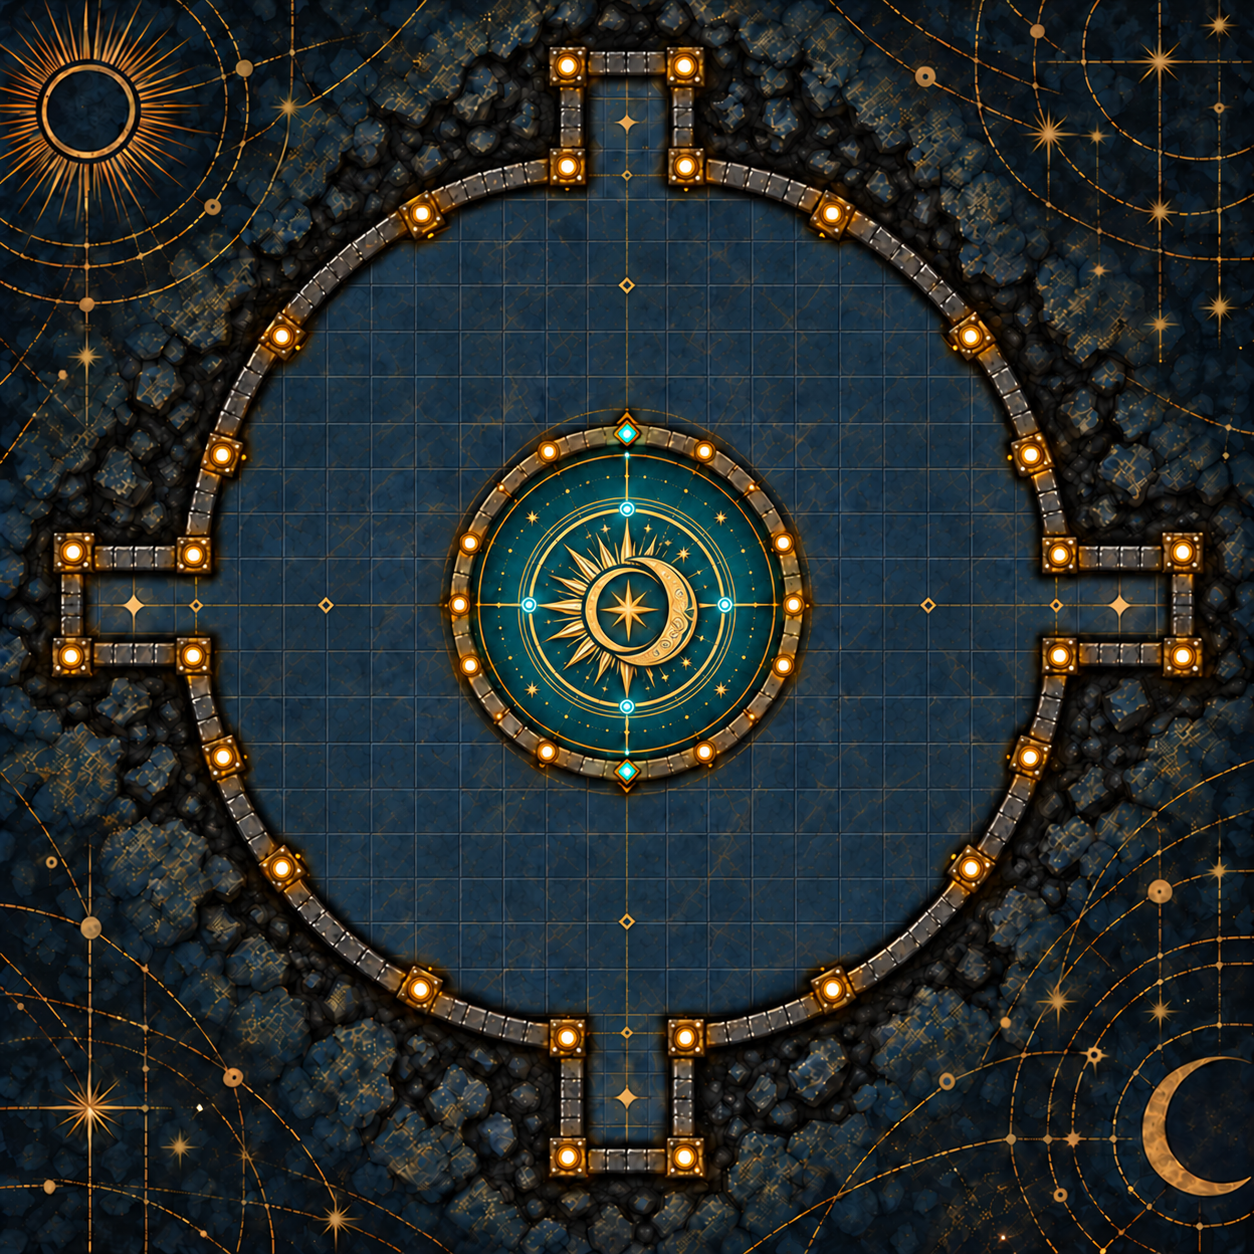
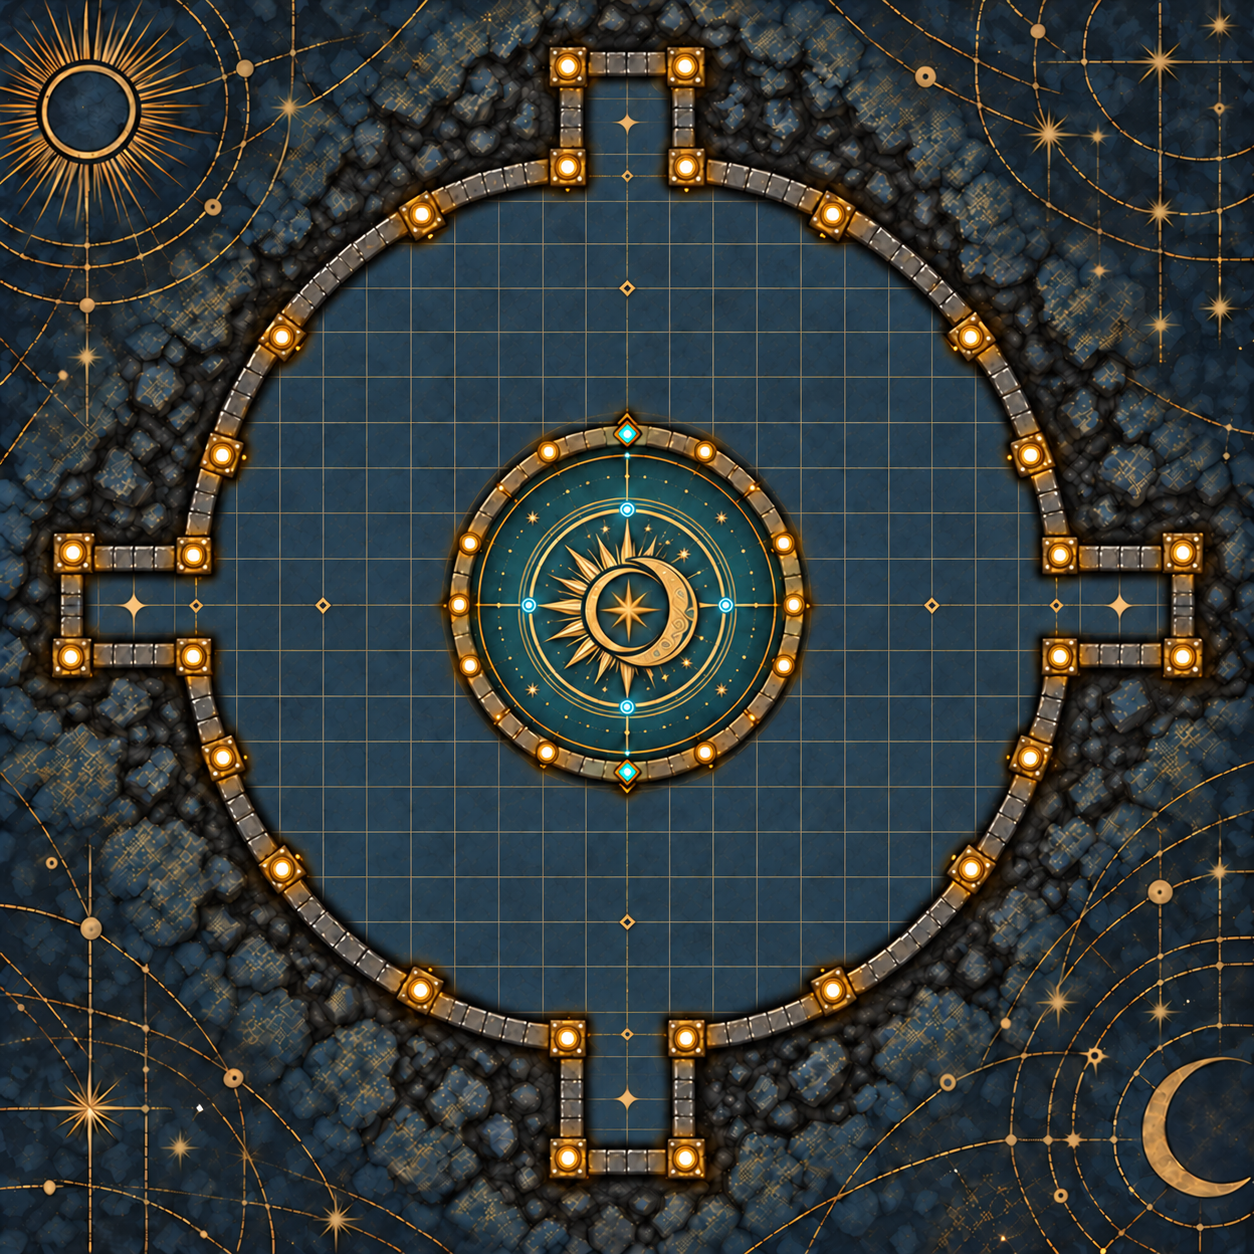
sdsa

Changed region(s): [[0.0, 0.0, 1.0, 1.0]]

diff --git a/orologio/js/orologio.js b/orologio/js/orologio.js
@@ -6,7 +6,7 @@
 const COLS_DEFAULT=29, ROWS_DEFAULT=29;
 const POSITION_KEY='palazzo_eterno_orologio_position';
 let cols=COLS_DEFAULT,rows=ROWS_DEFAULT,view=13;
-let imageWidth=1254,imageHeight=1254,gridX=20,gridY=20,cellPx=43.45;
+let imageWidth=1254,imageHeight=1254,gridX=19,gridY=19,cellWidthPx=43.44,cellHeightPx=44.78;
 let walkable=new Set(), blocked=new Set(),player=null, token=null, pos={x:14,y:26}, bonuses={};
 const $=id=>document.getElementById(id);
 const key=(x,y)=>`${x},${y}`;
@@ -16,7 +16,7 @@ const isWalkable=(x,y)=>Number.isInteger(x)&&Number.isInteger(y)&&x>=0&&y>=0&&x<
 async function loadMap(){
  const r=await fetch('orologio.json',{cache:'no-store'});if(!r.ok)throw Error('Impossibile caricare orologio.json');
  const data=await r.json();cols=Number(data.grid?.columns)||COLS_DEFAULT;rows=Number(data.grid?.rows)||ROWS_DEFAULT;
- const g=data.grid||{};imageWidth=Number(g.image_width_px)||1254;imageHeight=Number(g.image_height_px)||1254;gridX=Number(g.offset_x_px??20);gridY=Number(g.offset_y_px??20);cellPx=Number(g.cell_size_px)||43.45;
+ const g=data.grid||{};imageWidth=Number(g.image_width_px)||1254;imageHeight=Number(g.image_height_px)||1254;gridX=Number(g.offset_x_px??19);gridY=Number(g.offset_y_px??19);cellWidthPx=Number(g.cell_width_px ?? g.cell_size_px ?? 43.44);cellHeightPx=Number(g.cell_height_px ?? g.cell_size_px ?? 44.78);
  walkable=new Set((data.walkable_cells||[]).map(c=>key(Number(c.x),Number(c.y))));
  blocked=new Set((data.blocked_cells||[]).map(c=>key(Number(c.x),Number(c.y))));
  const img=$('dungeon-map-image');if(img)img.src=data.image||'immagini/stanza_orologio.png';
@@ -51,17 +51,17 @@ function updateCharacter(){
 function renderToken(){const map=$('dungeon-map');if(!map)return;
  token=document.createElement('div');token.className='dungeon-player-token orologio-token';
  const img=document.createElement('img');img.src='../immagini/token/'+(player.token||'token_1.png');img.alt=player.nome||'PG';img.draggable=false;token.appendChild(img);map.appendChild(token);positionToken();}
-function tokenLeft(x){return (gridX+x*cellPx)/imageWidth*100;}
-function tokenTop(y){return (gridY+y*cellPx)/imageHeight*100;}
-function positionToken(){if(!token)return;token.style.left=tokenLeft(pos.x)+'%';token.style.top=tokenTop(pos.y)+'%';token.style.width=cellPx/imageWidth*100+'%';token.style.height=cellPx/imageHeight*100+'%';put('dungeon-player-coordinates',`Coordinate PG: X ${pos.x} · Y ${pos.y}`);}
+function tokenLeft(x){return (gridX+x*cellWidthPx)/imageWidth*100;}
+function tokenTop(y){return (gridY+y*cellHeightPx)/imageHeight*100;}
+function positionToken(){if(!token)return;token.style.left=tokenLeft(pos.x)+'%';token.style.top=tokenTop(pos.y)+'%';token.style.width=cellWidthPx/imageWidth*100+'%';token.style.height=cellHeightPx/imageHeight*100+'%';put('dungeon-player-coordinates',`Coordinate PG: X ${pos.x} · Y ${pos.y}`);}
 function camera(immediate=false){const frame=document.querySelector('.dungeon-map-frame'),map=$('dungeon-map');if(!frame||!map)return;
  const fw=frame.clientWidth,fh=frame.clientHeight,mw=map.offsetWidth,mh=map.offsetHeight;
- const cx=(gridX+(pos.x+.5)*cellPx)/imageWidth*mw,cy=(gridY+(pos.y+.5)*cellPx)/imageHeight*mh;
+ const cx=(gridX+(pos.x+.5)*cellWidthPx)/imageWidth*mw,cy=(gridY+(pos.y+.5)*cellHeightPx)/imageHeight*mh;
  const dx=Math.max(0,Math.min(mw-fw,cx-fw/2)),dy=Math.max(0,Math.min(mh-fh,cy-fh/2));
  map.style.transition=immediate?'none':'transform 170ms ease-out';map.style.transform=`translate3d(${-dx}px,${-dy}px,0)`;}
 function zoom(v){view=Math.max(5,Math.min(Math.max(cols,rows),Math.round(v)));const map=$('dungeon-map');if(!map)return;
  // Misura cella visibile effettiva: include il margine di 20px presente nell'immagine.
- const zoomFactor=imageWidth/(cellPx*view);
+ const zoomFactor=Math.min(imageWidth/(cellWidthPx*view), imageHeight/(cellHeightPx*view));
  map.style.setProperty('width',`${zoomFactor*100}%`,'important');map.style.setProperty('height',`${zoomFactor*100}%`,'important');
  map.style.setProperty('--orologio-view-cells',String(view));put('base-zoom-reset',`${view} × ${view}`);camera(true);positionToken();}
 function move(dx,dy){const nx=pos.x+dx,ny=pos.y+dy;if(!isWalkable(nx,ny)){message('Passaggio bloccato.');return;}
@@ -72,11 +72,11 @@ function controls(){
  $('base-zoom-reset')?.addEventListener('click',()=>zoom(13));$('base-zoom-full')?.addEventListener('click',()=>zoom(Math.max(cols,rows)));
  document.addEventListener('keydown',e=>{if(e.target?.closest?.('input,textarea,select,[contenteditable="true"]'))return;
  const directions={w:[0,-1],arrowup:[0,-1],a:[-1,0],arrowleft:[-1,0],s:[0,1],arrowdown:[0,1],d:[1,0],arrowright:[1,0]};let delta=directions[e.key.toLowerCase()];if(!delta)return;e.preventDefault();if(!e.repeat)move(...delta);});
- $('dungeon-map')?.addEventListener('click',e=>{const map=$('dungeon-map');const rect=map.getBoundingClientRect();const x=Math.floor(((e.clientX-rect.left)/rect.width*imageWidth-gridX)/cellPx),y=Math.floor(((e.clientY-rect.top)/rect.height*imageHeight-gridY)/cellPx);if(Math.abs(x-pos.x)+Math.abs(y-pos.y)===1)move(x-pos.x,y-pos.y);});
+ $('dungeon-map')?.addEventListener('click',e=>{const map=$('dungeon-map');const rect=map.getBoundingClientRect();const x=Math.floor((((e.clientX-rect.left)/rect.width)*imageWidth-gridX)/cellWidthPx),y=Math.floor((((e.clientY-rect.top)/rect.height)*imageHeight-gridY)/cellHeightPx);if(Math.abs(x-pos.x)+Math.abs(y-pos.y)===1)move(x-pos.x,y-pos.y);});
  window.addEventListener('resize',()=>camera(true),{passive:true});
 }
 async function init(){try{message('Caricamento Stanza dell’Orologio...');await loadMap();if(!await loadCharacter())return;await loadEquipment();updateCharacter();renderToken();controls();zoom(13);
- message('Stanza dell’Orologio caricata. Il disco centrale è inaccessibile.');
+ message('Stanza dell’Orologio caricata. Griglia e mappa calibrate; il disco centrale è inaccessibile.');
  }catch(e){console.error('Orologio:',e);message(e.message||'Errore caricamento',true);}}
 document.addEventListener('DOMContentLoaded',init);
 })();

diff --git a/orologio/orologio.html b/orologio/orologio.html
@@ -26,7 +26,7 @@
 
     <link
         rel="stylesheet"
-        href="css/orologio.css?v=2"
+        href="css/orologio.css?v=3"
     >
 
     <style>
@@ -1025,6 +1025,6 @@
 
 
     </main>
-    <script src="js/orologio.js?v=2"></script>
+    <script src="js/orologio.js?v=3"></script>
 </body>
 </html>
